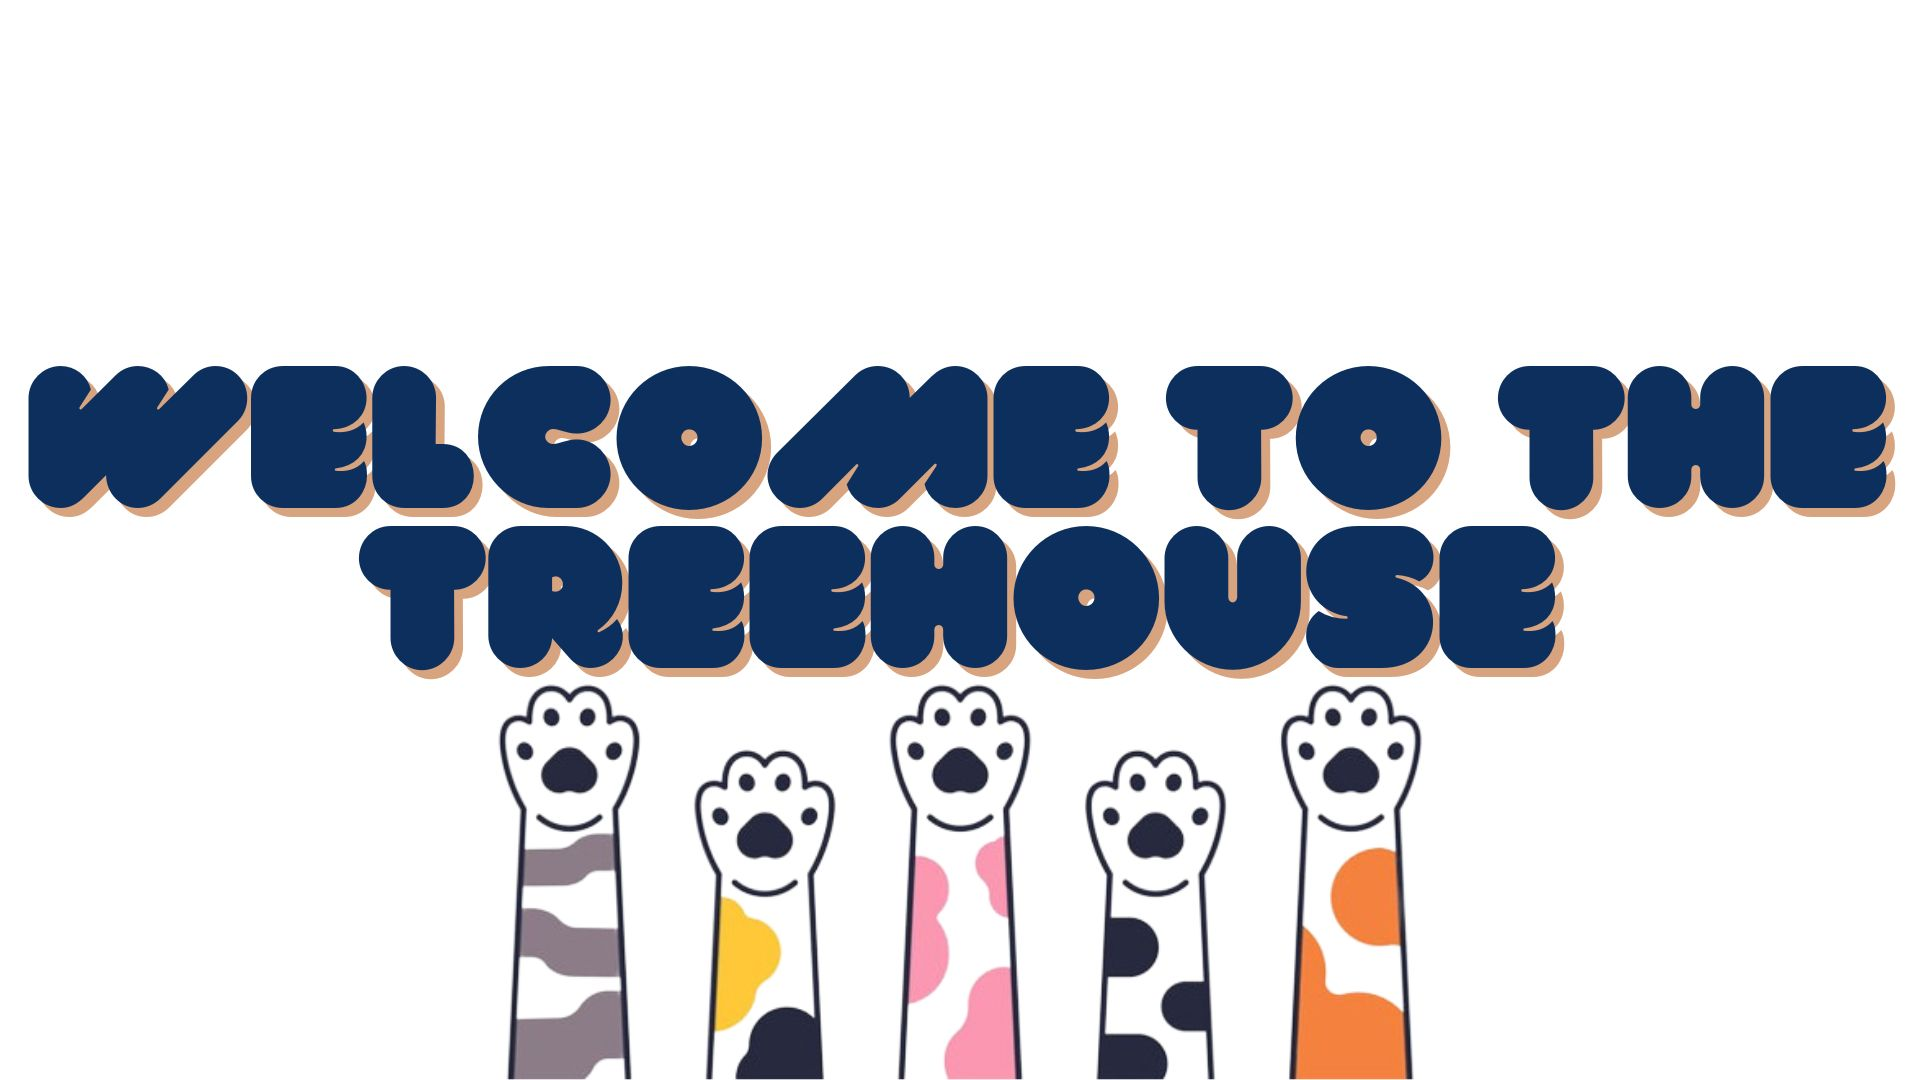
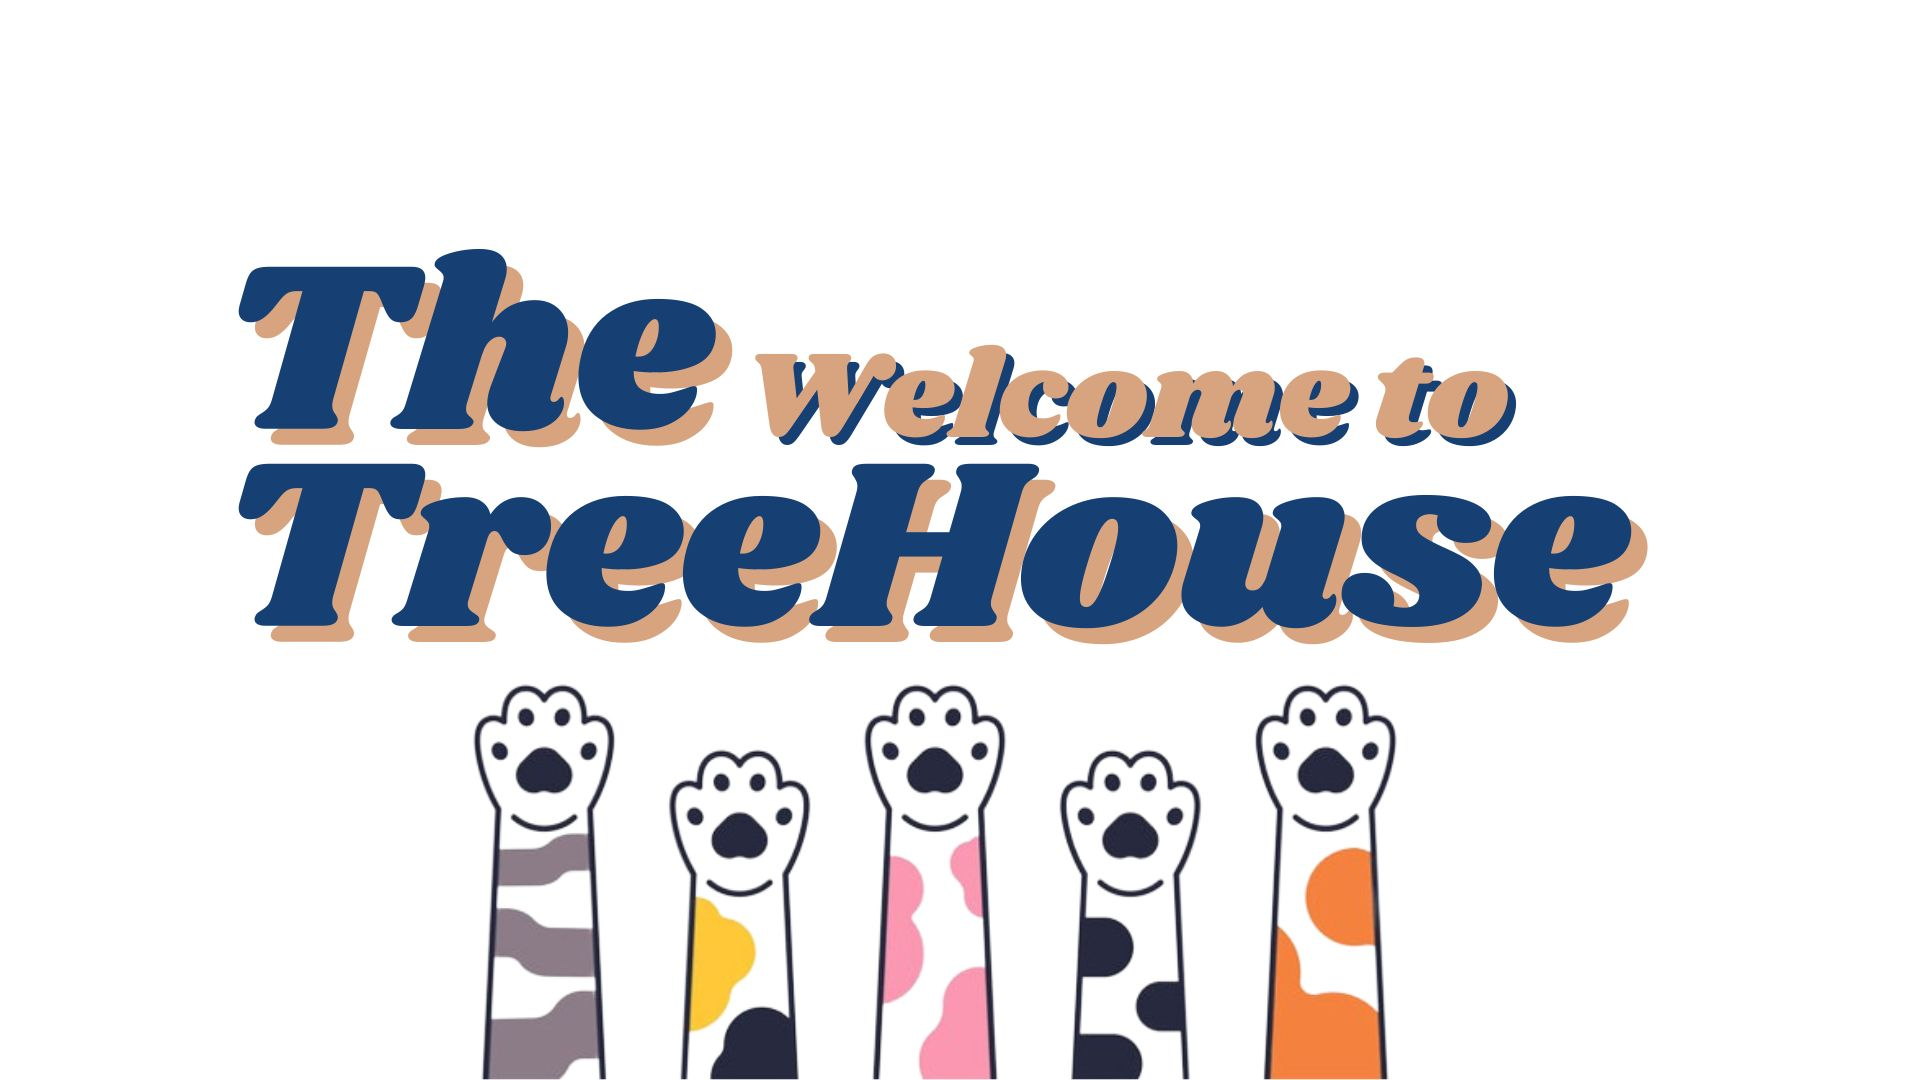
added styles and updated index

Changed region(s): [[0.0, 0.2139, 1.0, 1.0]]

diff --git a/assets/css/style.css b/assets/css/style.css
@@ -9,10 +9,7 @@
     font-weight: 400;
     font-style: normal;
     margin: 0;
-    display: flex;
-    flex-direction: column;
-    min-height: 100vh;
-    justify-content: flex-start;
+    display: block;
   }
   
   header {
@@ -48,39 +45,80 @@
     text-align: center;
   }
 
+  main {
+    display: block;
+  }
   .paws {
     height: 500px;
     width: 100%;
     margin-bottom: 25px;
-    background-image: url(.\assets\images\cat-paws.jpg);
+    background-image: url(.\assets\images\Welcome-to-the-Treehouse.jpg);
     background-size: cover;
     background-position: center;
   }
+  img {
+    overflow-clip-margin: content-box;
+    overflow: clip;
+  }
+  .cat-on img {
+    max-height: 200px;
+  }
+
+  .tens-cat img {
+    max-height: 200px;
+  }
+
+  .float-left {
+    float: left;
+    margin-right: 25px;
+  }
+
+  .float-right {
+    float: right;
+    margin-right: 25px;
+  }
+
+  .content {
+  width: 75%;
+  display: inline-block;
+  margin-left: 20px;
+  }
+
+  section {
+  display: block;
+  }
 
   .cat-on {
-    background-color: #13293d;
-    display: flex;
-    flex-direction:column;
-    align-items: left;
-}
-  
-.box {
-  background-color: #d8a47f;
-  border: 1px solid black;
-  border-radius: 5px;
-  width: 600px;
-  height: 150px;
-  text-align: center;
-}
+  margin-bottom: 20px;
+  padding: 50px;
+  height: 300px;
+  background-color: black;
+  color: #fff;
+  }
 
-.sitting {
-  width: 20%;
-  margin-left: 125px;
-}
+  .tens-cat {
+    margin-bottom: 20px;
+    padding: 50px;
+    height: 300px;
+    background-color: black;
+    color: #fff;
+  }
 
   h2 {
-    text-align: center;
-    font-size: 35px;
+    display: block;
+    margin-block-start: 0.83em;
+    margin-block-end: 0.83em;
+    margin-inline-start: 0px;
+    margin-inline-end: 0px;
+    font-weight: bold;
+  }
+
+  p {
+    display: block;
+    margin-block-start: 1em;
+    margin-block-end: 1em;
+    margin-inline-start: 0px;
+    margin-inline-end: 0px;
   }
 
   footer {

diff --git a/index.html b/index.html
@@ -29,16 +29,25 @@
 
     <main>
       <img src=".\assets\images\Welcome-to-the-Treehouse.jpg" alt="welcome to the treehouse and picture of cat paws" class="paws">
-      
-      <section class="cat-on">
-            <img src=".\assets\images\cat-on.png" alt="a picture of Morgan, the developer" class="sitting"/>
-            <div class="box">
+      <article class="content">
+      <section id="cat-on" class="cat-on img">
+            <img src=".\assets\images\cat-on.png" class="float-left" alt="a picture of Morgan, the developer, 
+            with a cat on her head"/>
             <h2>About Me</h2>
             <p>The slideshow buttons on the left won't work 
             until we add JavaScript to the page, but we can at least set up the 
             proper alignment with CSS.</p>
-        </div>
       </section>
+
+      <section id="tens-cat" class="tens-cat img">
+        <img src=".\assets\images\tens-cat.png" class="float-right" alt="a oicture of cat and Morgan holding up 10 out of 10 sign"/>
+        <h2>CSS Design</h2>
+        <p>The slideshow buttons on the left won't work 
+        until we add JavaScript to the page, but we can at least set up the 
+        proper alignment with CSS.</p>
+      </section>
+
+      </article>
     </main>
 
     <footer>
